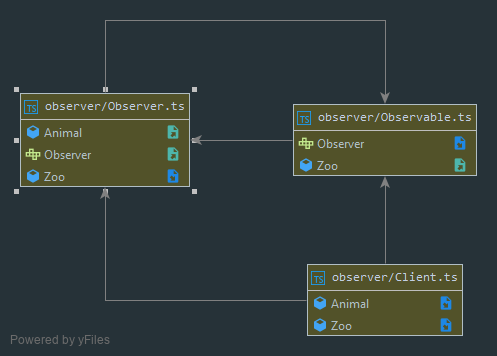
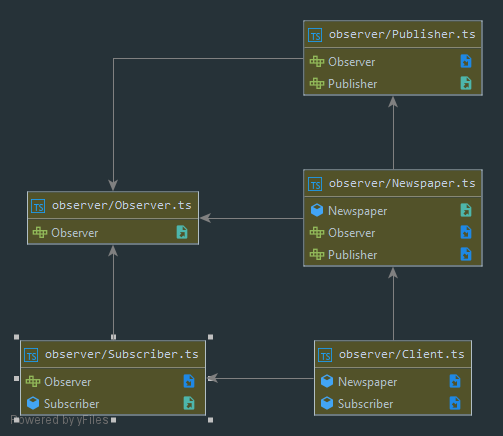
update observer pattern

diff --git a/behavioral/observer/Client.ts b/behavioral/observer/Client.ts
@@ -1,29 +1,46 @@
-import { Zoo } from './Observable';
-import { Animal } from './Observer';
+import { Newspaper } from './Newspaper';
+import { Subscriber } from './Subscriber';
 
-// zoo is publisher/observable
-const zoo$ = new Zoo();
+// create simple publish/subscribe example with newspaper and subscribes
 
-// create animals to observe
-const duck = new Animal(zoo$, 'duck');
-const human = new Animal(zoo$, 'human');
-const cat = new Animal(zoo$, 'cat');
+// create publishers and subscribers
+const theTimes = new Newspaper();
+const forbes = new Newspaper();
 
-// subscribe to observable
-zoo$.subscribe(duck);
-zoo$.subscribe(human);
-zoo$.subscribe(cat);
+const jack = new Subscriber('Jack');
+const olivia = new Subscriber('Olivia');
+const harry = new Subscriber('Harry');
+const amelia = new Subscriber('Amelia');
 
-// push and notify observers
-zoo$.pushMessage('I am from Earth');
-zoo$.notify();
-// duck: I am from Earth
-// human: I am from Earth
-// cat: I am from Earth
+theTimes.subscribe(jack);
+theTimes.subscribe(harry);
+forbes.subscribe(olivia);
+forbes.subscribe(harry);
+forbes.subscribe(amelia);
 
-// unsubscribe human from observable
-zoo$.unSubscribe(human);
-zoo$.pushMessage('I can\'t talk');
-zoo$.notify();
-// duck: I can't talk
-// cat: I can't talk
+// push message and notify all subscribed observers
+theTimes.pushMessage('checkout our new website: www.thetimes.co.uk');
+theTimes.notify();
+/*
+Hello Jack, checkout our new website: www.thetimes.co.uk
+Hello Harry, checkout our new website: www.thetimes.co.uk
+ */
+
+forbes.pushMessage('new iPhone has been released!');
+forbes.notify();
+/*
+Hello Olivia, new Iphone has been released!
+Hello Harry, new Iphone has been released!
+Hello Amelia, new Iphone has been released!
+ */
+
+// Amelia decided she is not interested into Forbes and unsubscribes
+forbes.unSubscribe(amelia);
+
+// let's dispatch another news
+forbes.pushMessage('Apple decides to stop supporting old iPhones');
+forbes.notify();
+/*
+Hello Olivia, Apple decides to stop supporting old iPhones
+Hello Harry, Apple decides to stop supporting old iPhones
+ */

diff --git a/behavioral/observer/Newspaper.ts b/behavioral/observer/Newspaper.ts
@@ -1,0 +1,28 @@
+import { Observer } from './Observer';
+import { Publisher } from './Publisher';
+
+// concrete Publisher is responsible to store and send message to observers
+export class Newspaper implements Publisher<string> {
+  observers: Observer<string>[] = [];
+  private message: string;
+
+  subscribe(observer: Observer<string>): void {
+    this.observers.push(observer);
+  }
+
+  unSubscribe(observer: Observer<string>): void {
+    this.observers = this.observers.filter(obs => obs !== observer);
+  }
+
+  notify(): void {
+    this.observers.forEach(observer => observer.update(this.getMessage()));
+  }
+
+  pushMessage(message: string) {
+    this.message = message;
+  }
+
+  getMessage(): string {
+    return this.message;
+  }
+}

diff --git a/behavioral/observer/Observer.ts b/behavioral/observer/Observer.ts
@@ -1,19 +1,5 @@
-import { Zoo } from './Observable';
 
-// base observer
-export interface Observer {
-  update(): void;
-}
-
-// concrete observer
-export class Animal implements Observer {
-  constructor(
-    private zoo: Zoo,
-    private name: string,
-  ) {
-  }
-
-  update() {
-    console.log(`${this.name}: ${this.zoo.getMessage()}`);
-  }
+// Observer declares method which is invoked by Publisher when new data is emitted
+export interface Observer<T> {
+  update(data: T): void;
 }

diff --git a/behavioral/observer/Subscriber.ts b/behavioral/observer/Subscriber.ts
@@ -1,0 +1,11 @@
+import { Observer } from './Observer';
+
+// business logic goes into concrete Observer and `update` is handled as needed
+export class Subscriber implements Observer<string> {
+  constructor(private name: string) {
+  }
+
+  update(msg: string): void {
+    console.log(`Hello ${this.name}, ${msg}`);
+  }
+}

diff --git a/behavioral/observer/Publisher.ts b/behavioral/observer/Publisher.ts
@@ -1,0 +1,10 @@
+import { Observer } from './Observer';
+
+// Publisher defines set of methods to manage observers
+export interface Publisher<T> {
+  subscribe(observer: Observer<T>): void;
+
+  unSubscribe(observer: Observer<T>): void;
+
+  notify(): void;
+}
